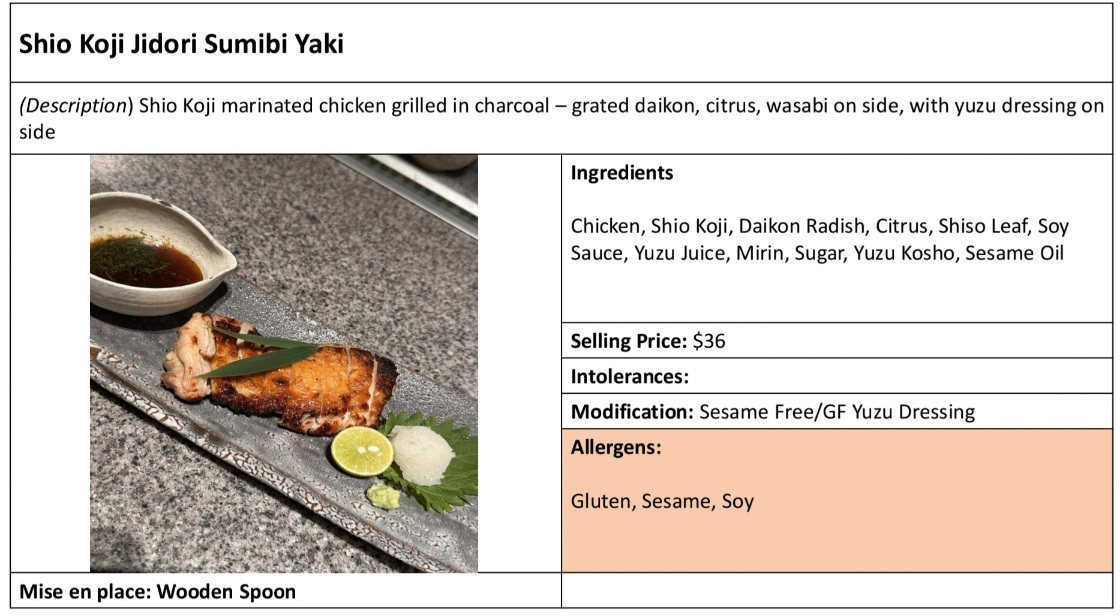
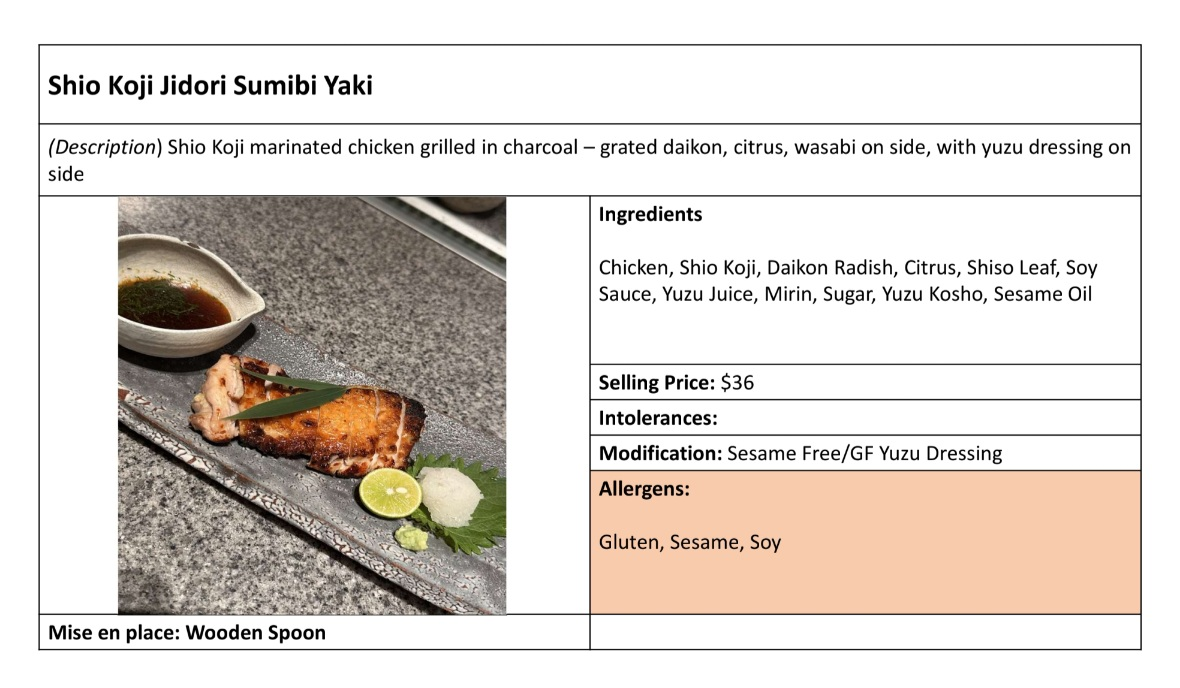
update pic: chicken

diff --git a/app/manager/page.jsx b/app/manager/page.jsx
@@ -2192,7 +2192,7 @@ export default function ManagerDinnerPage() {
           <div className='modal-content'>
           
           <div>
-            <img src='jidori-chicken.jpg' />
+            <img src={`jidori-chicken.jpg?v={Date.now()}`} />
           </div>
           <div className='modal-text'>
                           

diff --git a/app/page.jsx b/app/page.jsx
@@ -2269,7 +2269,7 @@ appetizers, seasonal plates, and dessert.
           <div className='modal-content'>
           
           <div>
-            <img src='jidori-chicken.jpg' />
+            <img src={`jidori-chicken.jpg?v={Date.now()}`} />
           </div>
           <div className='modal-text'>
                           
